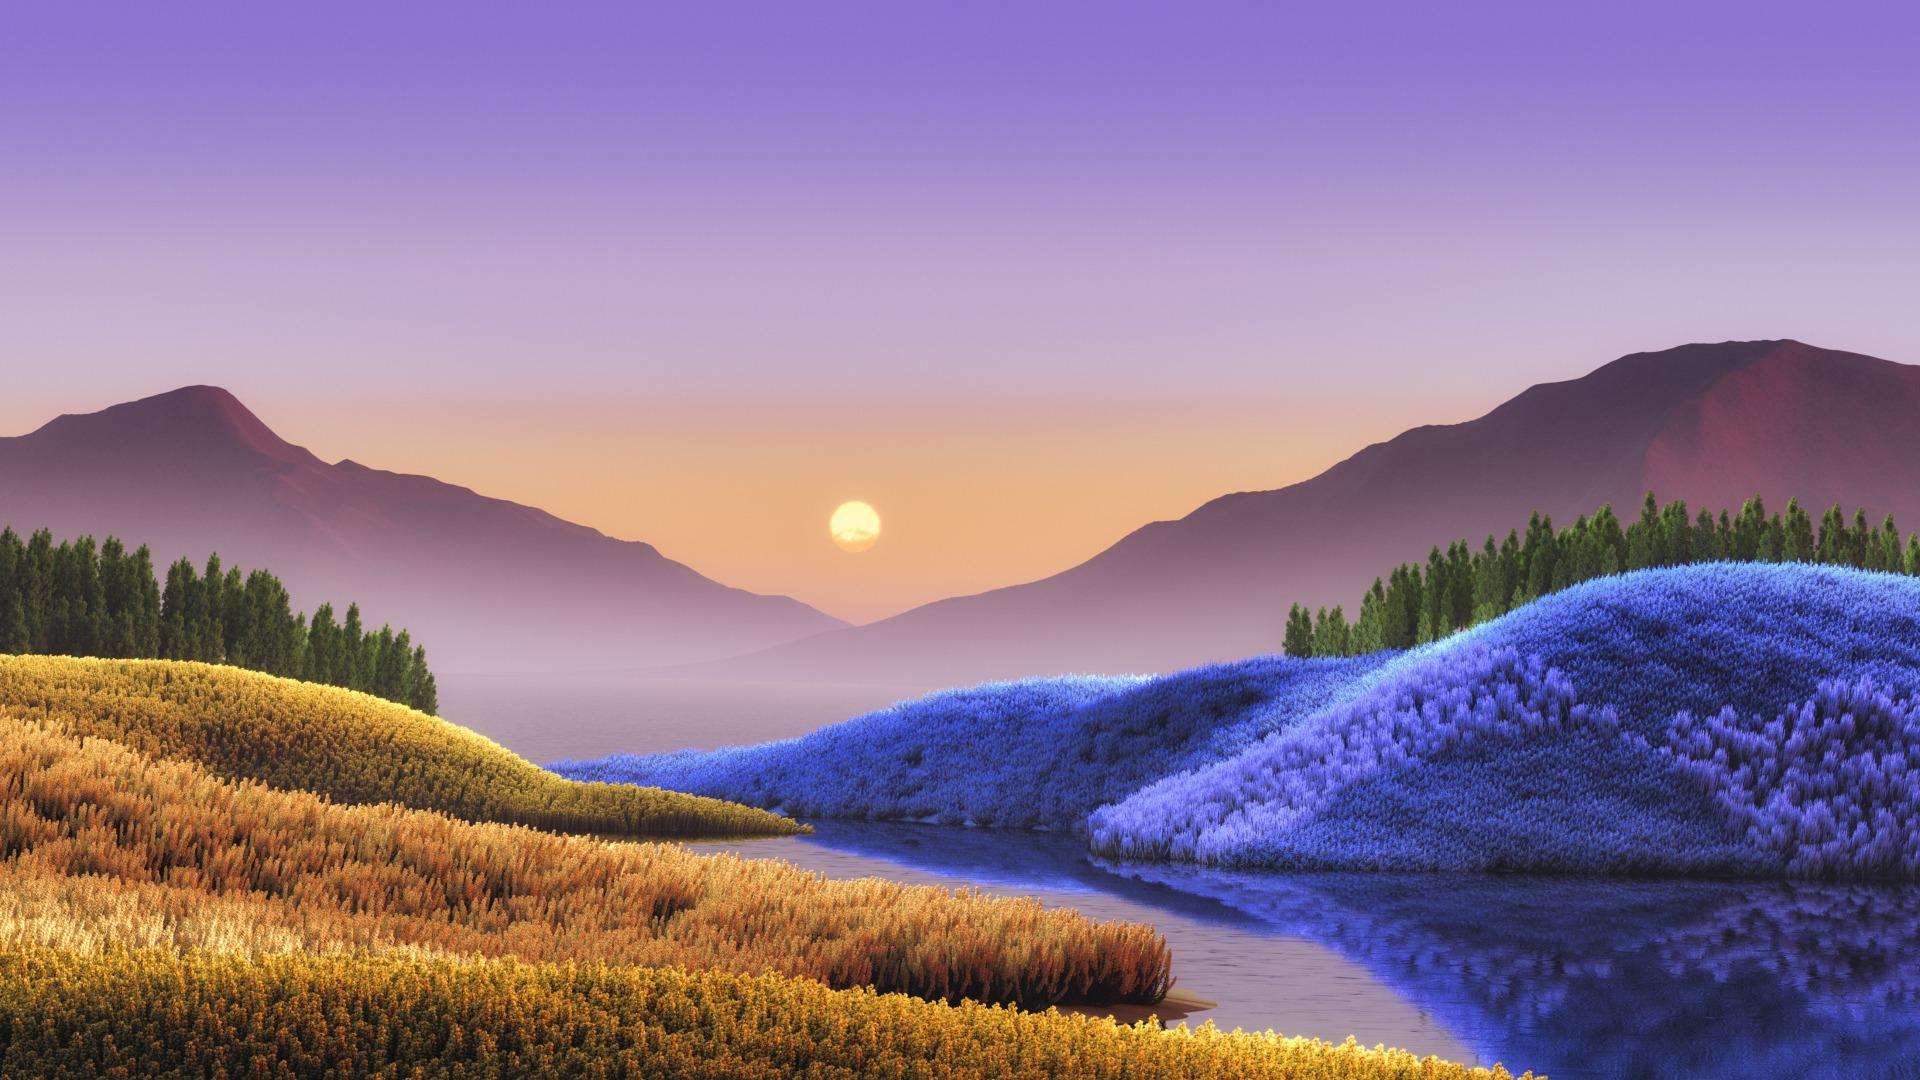
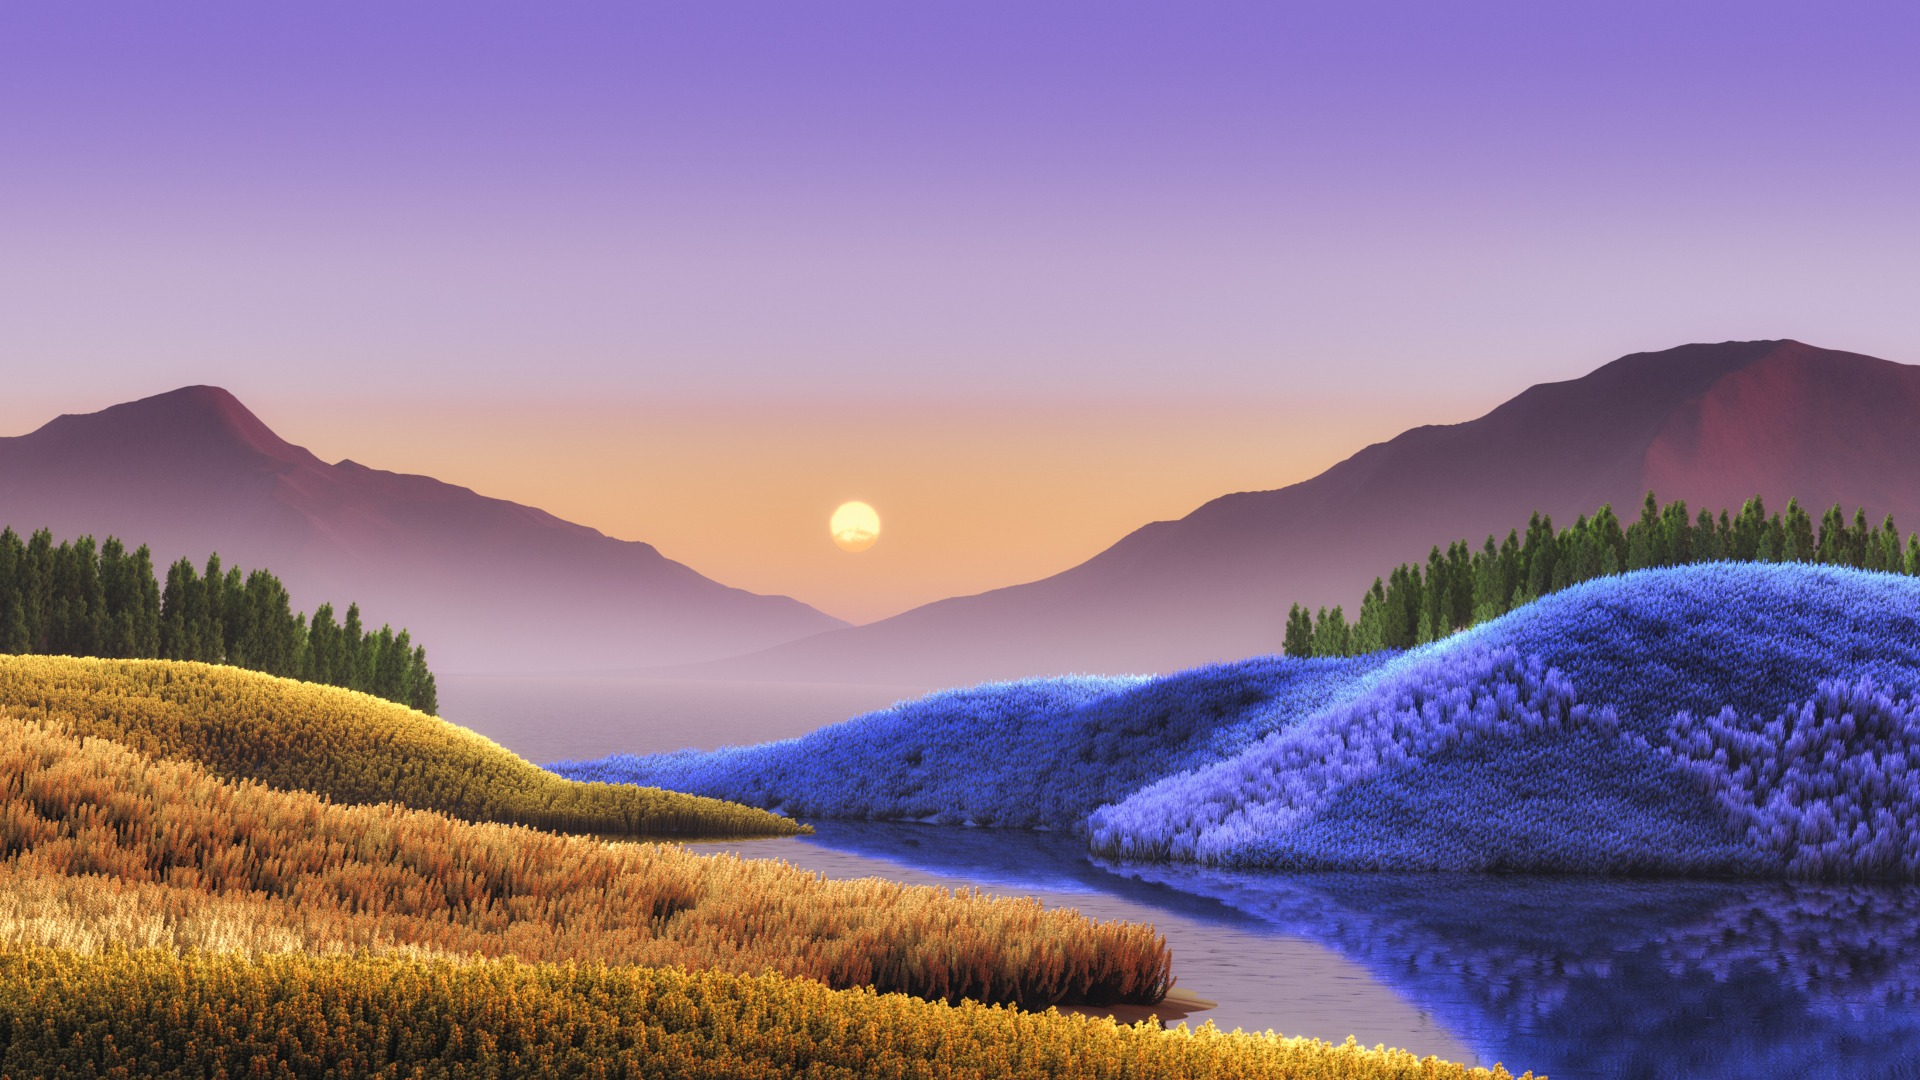
ci: remove obsolete RAW to JPG conversion step and update README

Changed region(s): [[0.875, 0.55, 1.0, 0.6111], [0.6875, 0.7333, 0.7188, 0.7639]]

diff --git a/README.md b/README.md
@@ -4,8 +4,6 @@
 
 An electronic system-level model of an embedded platform that converts 1080p RAW RGB images to grayscale using **SystemC** and **TLM 2.0**.
 
-![Build](https://github.com/Team-Diseno-de-Alto-Nivel/mp6160-systemc-tlm-image-accelerator/actions/workflows/build.yml/badge.svg)
-
 ---
 
 ## Table of Contents
